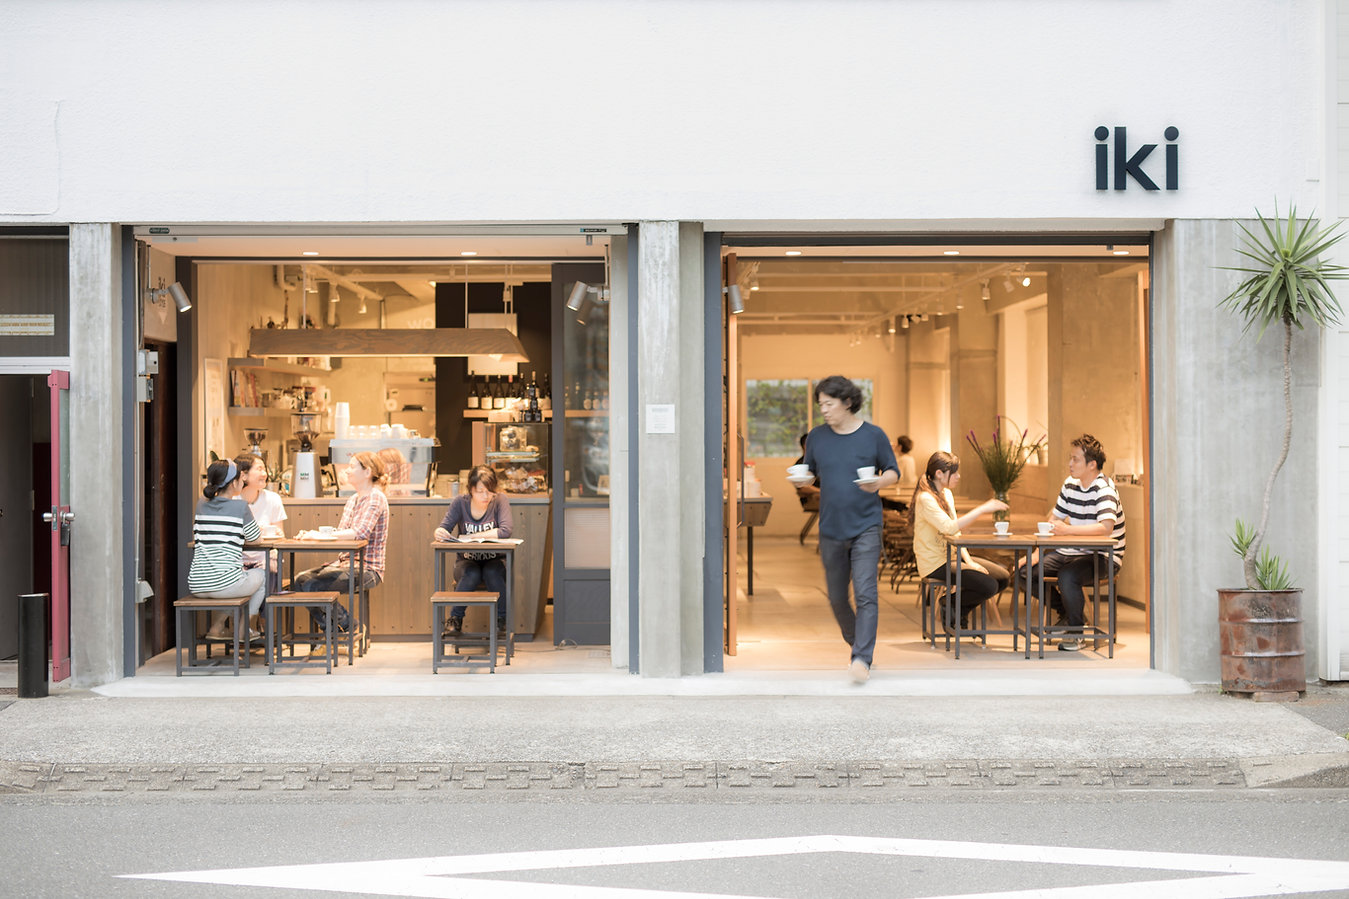
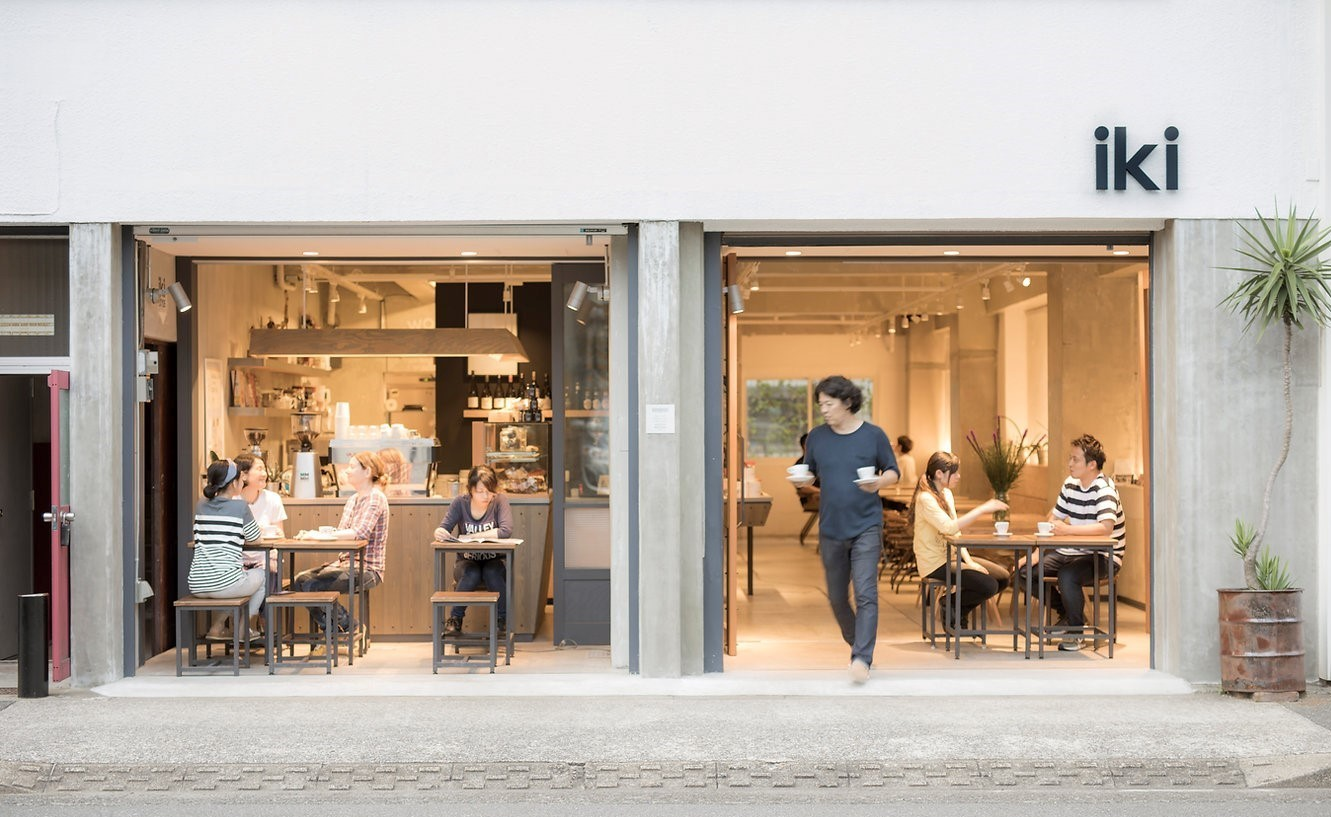
edited navbar & added a carousel

diff --git a/index.html b/index.html
@@ -102,53 +102,68 @@
       .menu-banner {
         padding-bottom: 80px;
       }
+      .navbar .container-fluid {
+        margin-left: 20%;
+      }
     </style>
   </head>
   <body>
     <div class="hero">
-      <nav class="navbar navbar-expand-lg bg-body-tertiary">
+      <nav class="navbar navbar-expand-lg bg-body-white">
         <div class="container-fluid">
-          <a class="navbar-brand" href="#">
-            <img
-              src="/docs/5.3/assets/brand/bootstrap-logo.svg"
-              alt="Logo"
-              width="30"
-              height="24"
-              class="d-inline-block align-text-top"
-            />
-          </a>
-          <button
-            class="navbar-toggler"
-            type="button"
-            data-bs-toggle="collapse"
-            data-bs-target="#navbarNav"
-            aria-controls="navbarNav"
-            aria-expanded="false"
-            aria-label="Toggle navigation"
-          >
-            <span class="navbar-toggler-icon"></span>
-          </button>
-          <div
-            class="collapse navbar-collapse nav justify-content-end"
-            id="navbarNav"
-          >
-            <ul class="navbar-nav">
-              <li class="nav-item">
-                <a class="nav-link active" aria-current="page" href="#">Home</a>
-              </li>
-              <li class="nav-item">
-                <a class="nav-link" href="#about">Info</a>
-              </li>
-              <li class="nav-item">
-                <a class="nav-link" href="#">Menu</a>
-              </li>
-              <li class="nav-item">
-                <a class="nav-link">iki Life</a>
-              </li>
-              <li class="nav-item">
-                <a class="nav-link">ONLINE SHOP</a>
-              </li>
-            </ul>
+          <div class="row">
+            <div class="col-md-12 text-center">
+              <a href="index.html">
+                <img alt="Logo" class="logo w-25" src="images/IKI LOGO.png" />
+              </a>
+            </div>
+
+            <button
+              class="navbar-toggler"
+              type="button"
+              data-bs-toggle="collapse"
+              data-bs-target="#navbarNav"
+              aria-controls="navbarNav"
+              aria-expanded="false"
+              aria-label="Toggle navigation"
+            >
+              <span class="navbar-toggler-icon"></span>
+            </button>
+            <div
+              class="collapse navbar-collapse nav justify-content-center"
+              id="navbarNav"
+            >
+              <div class="nav-bar">
+                <div class="container">
+                  <div class="row">
+                    <div class="col-sm-12 mt-5 text-center">
+                      <ul class="navbar-nav inline-block">
+                        <li class="nav-item">
+                          <a
+                            class="nav-link active"
+                            aria-current="page"
+                            href="#"
+                            >Home</a
+                          >
+                        </li>
+                        <li class="nav-item">
+                          <a class="nav-link" href="#about">Info</a>
+                        </li>
+                        <li class="nav-item">
+                          <a class="nav-link" href="#">Menu</a>
+                        </li>
+                        <li class="nav-item">
+                          <a class="nav-link">iki Life</a>
+                        </li>
+                        <li class="nav-item">
+                          <a class="nav-link">ONLINE SHOP</a>
+                        </li>
+                      </ul>
+                    </div>
+                  </div>
+                </div>
+              </div>
+            </div>
           </div>
         </div>
       </nav>
@@ -157,11 +172,24 @@
         <div class="container">
           <div class="row">
             <div class="col-md-12 text-center">
-              <img
-                src="images/iki warehouse.jpg"
-                class="img-fluid w-100"
-                alt="iki"
-              />
+              <div
+                id="carouselExampleSlidesOnly"
+                class="carousel slide"
+                data-bs-ride="carousel"
+              >
+                <div class="carousel-inner">
+                  <div class="carousel-item active">
+                    <img
+                      src="images/iki warehouse.jpg"
+                      class="d-block w-100"
+                      alt="..."
+                    />
+                  </div>
+                  <div class="carousel-item">
+                    <img src="images/iki.jpg" class="d-block w-90" alt="..." />
+                  </div>
+                </div>
+              </div>
             </div>
           </div>
         </div>
